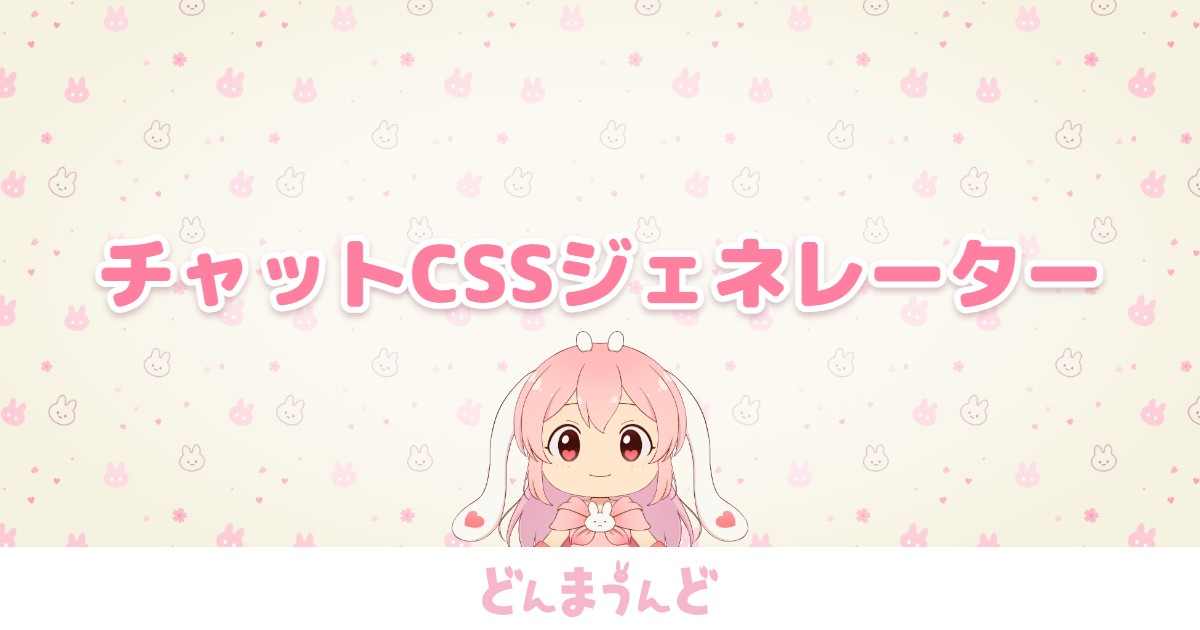
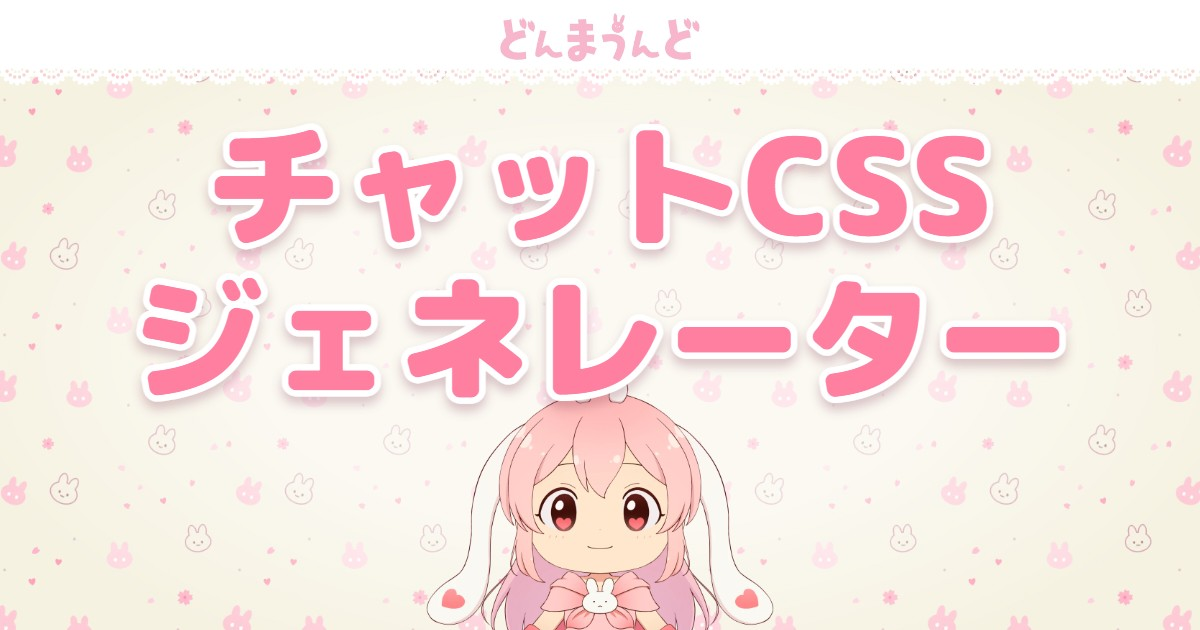
OGP 画像を新しいデザインにする（ロゴを上の帯に、レースのふち）。キャッシュよけの v を更新

diff --git a/youtube-subscribers/index.html b/youtube-subscribers/index.html
@@ -13,7 +13,7 @@
   <meta property="og:type" content="website">
   <meta property="og:url" content="https://donnma.com/tool/youtube-subscribers/">
   <meta property="og:site_name" content="どんまうんど-Tools">
-  <meta property="og:image" content="https://donnma.com/tool/image/ogp-youtube-subscribers.jpg?v=20261004a">
+  <meta property="og:image" content="https://donnma.com/tool/image/ogp-youtube-subscribers.jpg?v=20261005a">
   <meta property="og:image:width" content="1200">
   <meta property="og:image:height" content="630">
   <meta property="og:image:alt" content="登録者数カウンター">

diff --git a/overlay/gaming_girly_neon/index.html b/overlay/gaming_girly_neon/index.html
@@ -14,7 +14,7 @@
     <meta property="og:type" content="website">
     <meta property="og:url" content="https://donnma.com/tool/overlay/gaming_girly_neon/">
     <meta property="og:site_name" content="どんまうんど-Tools">
-    <meta property="og:image" content="https://donnma.com/tool/image/ogp-overlay.jpg?v=20261004a">
+    <meta property="og:image" content="https://donnma.com/tool/image/ogp-overlay.jpg?v=20261005a">
     <meta property="og:image:width" content="1200">
     <meta property="og:image:height" content="630">
     <meta property="og:image:alt" content="配信オーバーレイ">

diff --git a/overlay/sweet_lolita_rose/index.html b/overlay/sweet_lolita_rose/index.html
@@ -14,7 +14,7 @@
     <meta property="og:type" content="website">
     <meta property="og:url" content="https://donnma.com/tool/overlay/sweet_lolita_rose/">
     <meta property="og:site_name" content="どんまうんど-Tools">
-    <meta property="og:image" content="https://donnma.com/tool/image/ogp-overlay.jpg?v=20261004a">
+    <meta property="og:image" content="https://donnma.com/tool/image/ogp-overlay.jpg?v=20261005a">
     <meta property="og:image:width" content="1200">
     <meta property="og:image:height" content="630">
     <meta property="og:image:alt" content="配信オーバーレイ">

diff --git a/overlay/cyberpunk-gaming/index.html b/overlay/cyberpunk-gaming/index.html
@@ -14,7 +14,7 @@
     <meta property="og:type" content="website">
     <meta property="og:url" content="https://donnma.com/tool/overlay/cyberpunk-gaming/">
     <meta property="og:site_name" content="どんまうんど-Tools">
-    <meta property="og:image" content="https://donnma.com/tool/image/ogp-overlay.jpg?v=20261004a">
+    <meta property="og:image" content="https://donnma.com/tool/image/ogp-overlay.jpg?v=20261005a">
     <meta property="og:image:width" content="1200">
     <meta property="og:image:height" content="630">
     <meta property="og:image:alt" content="配信オーバーレイ">

diff --git a/chat-css-generator/index.html b/chat-css-generator/index.html
@@ -13,7 +13,7 @@
   <meta property="og:type" content="website">
   <meta property="og:url" content="https://donnma.com/tool/chat-css-generator/">
   <meta property="og:site_name" content="どんまうんど-Tools">
-  <meta property="og:image" content="https://donnma.com/tool/image/ogp-chat-css.jpg?v=20261004a">
+  <meta property="og:image" content="https://donnma.com/tool/image/ogp-chat-css.jpg?v=20261005a">
   <meta property="og:image:width" content="1200">
   <meta property="og:image:height" content="630">
   <meta property="og:image:alt" content="チャットCSSジェネレーター">

diff --git a/overlay/citypop/index.html b/overlay/citypop/index.html
@@ -11,7 +11,7 @@
     <meta property="og:type" content="website">
     <meta property="og:url" content="https://donnma.com/tool/overlay/citypop/">
     <meta property="og:site_name" content="どんまうんど-Tools">
-    <meta property="og:image" content="https://donnma.com/tool/image/ogp-overlay.jpg?v=20261004a">
+    <meta property="og:image" content="https://donnma.com/tool/image/ogp-overlay.jpg?v=20261005a">
     <meta property="og:image:width" content="1200">
     <meta property="og:image:height" content="630">
     <meta property="og:image:alt" content="配信オーバーレイ">

diff --git a/overlay/gaming/index.html b/overlay/gaming/index.html
@@ -14,7 +14,7 @@
     <meta property="og:type" content="website">
     <meta property="og:url" content="https://donnma.com/tool/overlay/gaming/">
     <meta property="og:site_name" content="どんまうんど-Tools">
-    <meta property="og:image" content="https://donnma.com/tool/image/ogp-overlay.jpg?v=20261004a">
+    <meta property="og:image" content="https://donnma.com/tool/image/ogp-overlay.jpg?v=20261005a">
     <meta property="og:image:width" content="1200">
     <meta property="og:image:height" content="630">
     <meta property="og:image:alt" content="配信オーバーレイ">

diff --git a/overlay/pop/index.html b/overlay/pop/index.html
@@ -11,7 +11,7 @@
     <meta property="og:type" content="website">
     <meta property="og:url" content="https://donnma.com/tool/overlay/pop/">
     <meta property="og:site_name" content="どんまうんど-Tools">
-    <meta property="og:image" content="https://donnma.com/tool/image/ogp-overlay.jpg?v=20261004a">
+    <meta property="og:image" content="https://donnma.com/tool/image/ogp-overlay.jpg?v=20261005a">
     <meta property="og:image:width" content="1200">
     <meta property="og:image:height" content="630">
     <meta property="og:image:alt" content="配信オーバーレイ">

diff --git a/overlay/wa/index.html b/overlay/wa/index.html
@@ -11,7 +11,7 @@
     <meta property="og:type" content="website">
     <meta property="og:url" content="https://donnma.com/tool/overlay/wa/">
     <meta property="og:site_name" content="どんまうんど-Tools">
-    <meta property="og:image" content="https://donnma.com/tool/image/ogp-overlay.jpg?v=20261004a">
+    <meta property="og:image" content="https://donnma.com/tool/image/ogp-overlay.jpg?v=20261005a">
     <meta property="og:image:width" content="1200">
     <meta property="og:image:height" content="630">
     <meta property="og:image:alt" content="配信オーバーレイ">

diff --git a/tournament/index.html b/tournament/index.html
@@ -13,7 +13,7 @@
   <meta property="og:type" content="website">
   <meta property="og:url" content="https://donnma.com/tool/tournament/">
   <meta property="og:site_name" content="どんまうんど-Tools">
-  <meta property="og:image" content="https://donnma.com/tool/image/ogp-tournament.jpg?v=20261004a">
+  <meta property="og:image" content="https://donnma.com/tool/image/ogp-tournament.jpg?v=20261005a">
   <meta property="og:image:width" content="1200">
   <meta property="og:image:height" content="630">
   <meta property="og:image:alt" content="トーナメント表メーカー">

diff --git a/thumbnail/index.html b/thumbnail/index.html
@@ -13,7 +13,7 @@
   <meta property="og:type" content="website">
   <meta property="og:url" content="https://donnma.com/tool/thumbnail/">
   <meta property="og:site_name" content="どんまうんど-Tools">
-  <meta property="og:image" content="https://donnma.com/tool/image/ogp-thumbnail.jpg?v=20261004a">
+  <meta property="og:image" content="https://donnma.com/tool/image/ogp-thumbnail.jpg?v=20261005a">
   <meta property="og:image:width" content="1200">
   <meta property="og:image:height" content="630">
   <meta property="og:image:alt" content="サムネイルメーカー">

diff --git a/bg-remove/index.html b/bg-remove/index.html
@@ -13,7 +13,7 @@
   <meta property="og:type" content="website">
   <meta property="og:url" content="https://donnma.com/tool/bg-remove/">
   <meta property="og:site_name" content="どんまうんど-Tools">
-  <meta property="og:image" content="https://donnma.com/tool/image/ogp-bg-remove.jpg?v=20261004a">
+  <meta property="og:image" content="https://donnma.com/tool/image/ogp-bg-remove.jpg?v=20261005a">
   <meta property="og:image:width" content="1200">
   <meta property="og:image:height" content="630">
   <meta property="og:image:alt" content="背景透過ツール">
